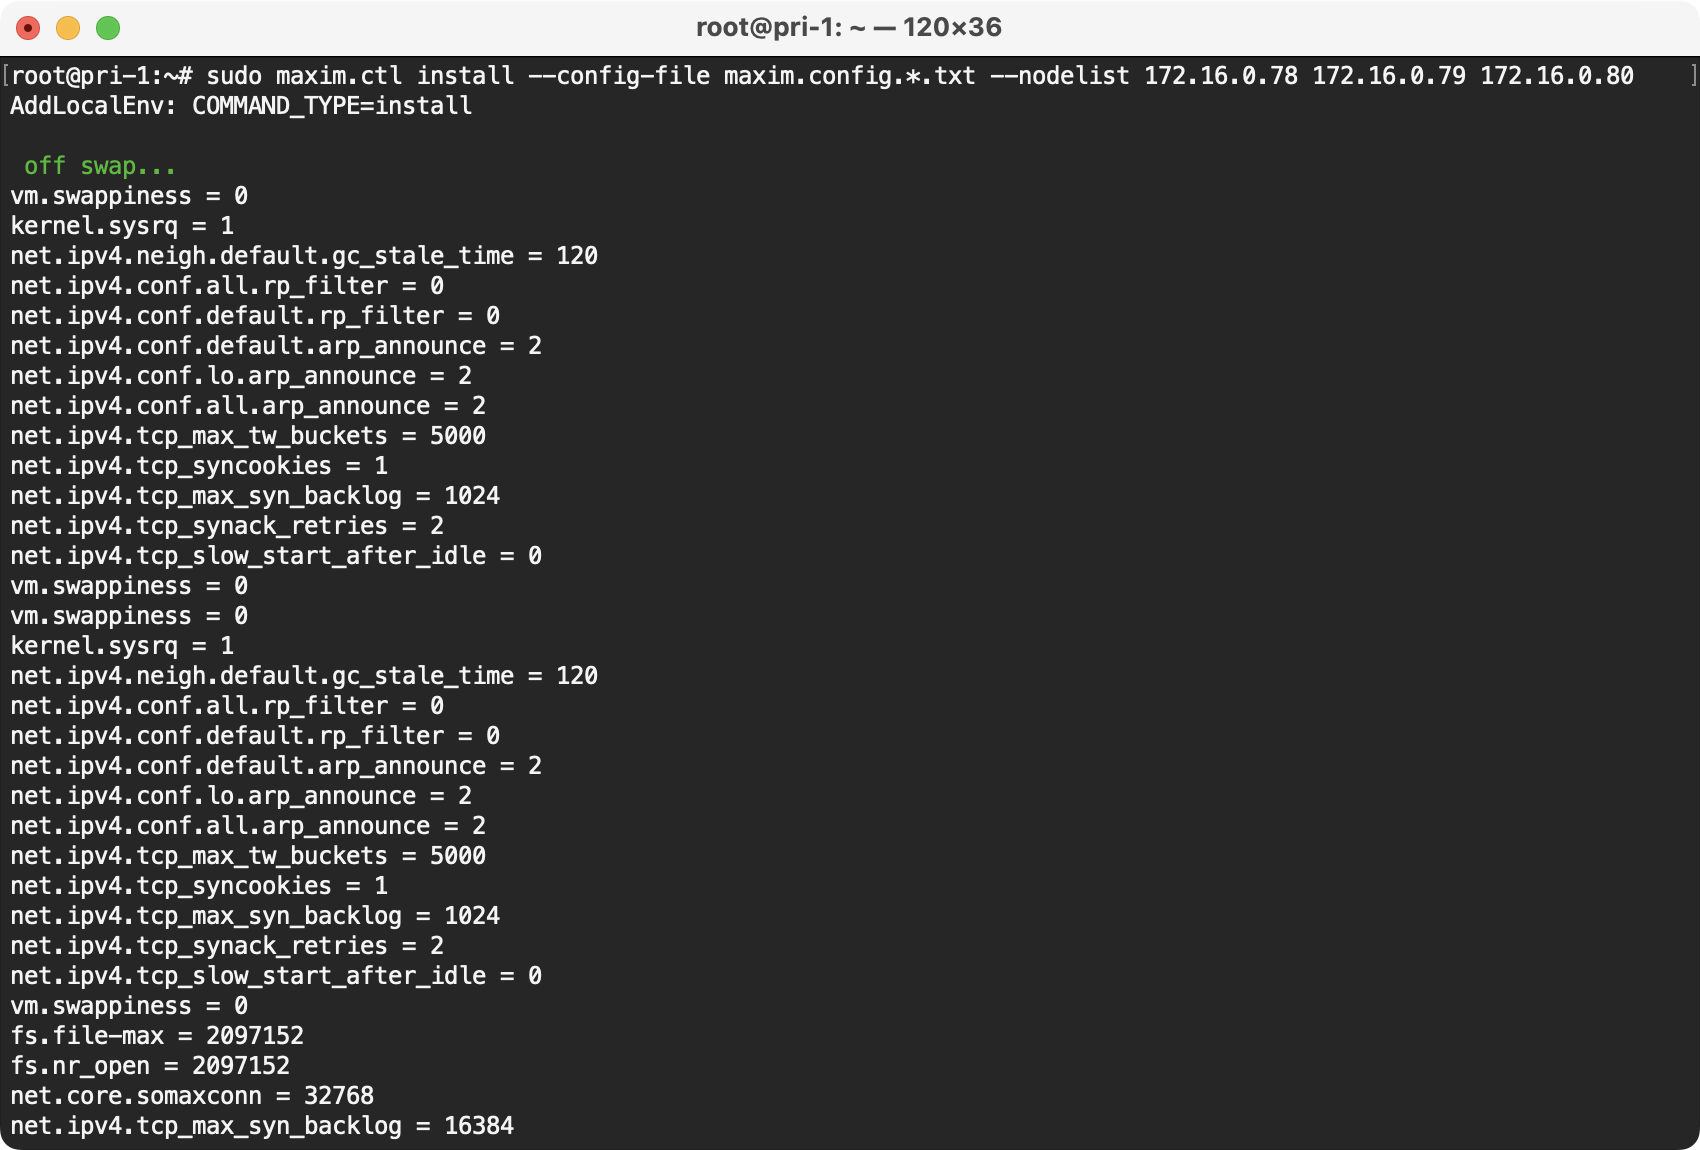
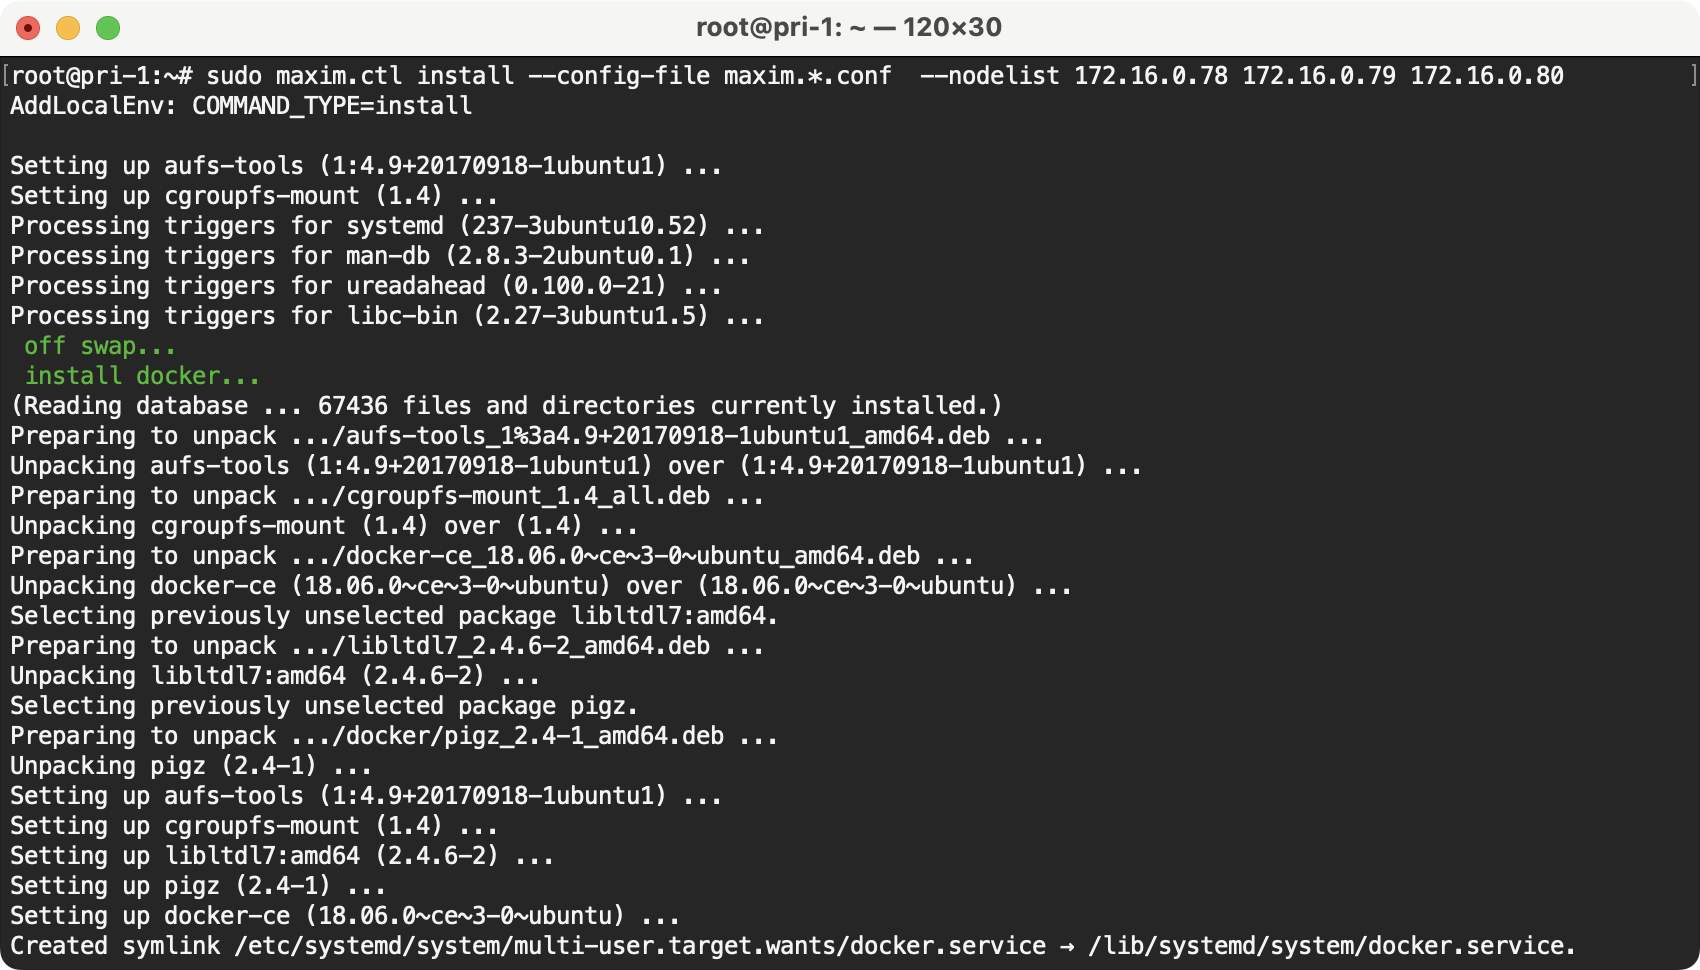
Change to maxim.*.conf

Changed region(s): [[0.0, 0.0, 1.0, 0.9897], [0.9976, 0.9588, 1.0, 1.0]]

diff --git a/zh-hans/quick-start/how-to-deploy-private-cloud.md b/zh-hans/quick-start/how-to-deploy-private-cloud.md
@@ -261,7 +261,7 @@ mkdir -p /lanying && mount -o loop lanying-im-server*.iso /lanying && cp /lanyin
 4.运行安装
 
 ```
-sudo maxim.ctl install --config-file maxim.config.*.txt
+sudo maxim.ctl install --config-file maxim.*.conf
 ```
 
 开始执行的截图：
@@ -358,7 +358,7 @@ mkdir -p /lanying && mount -o loop lanying-im-server*.iso /lanying && cp /lanyin
 5.运行安装
 
 ```
-sudo maxim.ctl install --config-file maxim.config.*.txt --nodelist 172.16.0.78 172.16.0.79 172.16.0.80
+sudo maxim.ctl install --config-file maxim.*.conf --nodelist 172.16.0.78 172.16.0.79 172.16.0.80
 ```
 
 开始执行的截图：

diff --git a/en/quick-start/how-to-deploy-private-cloud.md b/en/quick-start/how-to-deploy-private-cloud.md
@@ -261,7 +261,7 @@ Screenshot of the operation:
 4.Run installation
 
 ```
-sudo maxim.ctl install --config-file maxim.config.*.txt
+sudo maxim.ctl install --config-file maxim.*.conf
 ```
 
 Screenshot of execution started:
@@ -359,7 +359,7 @@ Screenshot of the operation:
 5.Run the installation
 
 ```
-sudo maxim.ctl install --config-file maxim.config.*.txt --nodelist 172.16.0.78 172.16.0.79 172.16.0.80
+sudo maxim.ctl install --config-file maxim.*.conf --nodelist 172.16.0.78 172.16.0.79 172.16.0.80
 ```
 
 Screenshot of execution started:
